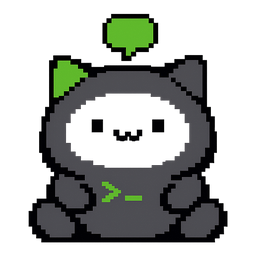
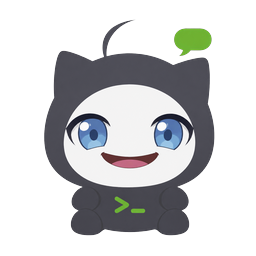
feat(panel): 球放大到 96px、捏一下换表情、三个真状态各一张脸
球 76 → 96（+26%），出图余量 4% → 2%（猫再大 2%）。动效是把既有的三样做强：悬停从此
只改阴影 → 加 `scale(1.02)`；按下 `.95` → `.92`；过渡换成回弹曲线（松手会过冲一下）。
**放大倍数与出图余量是配对的两半**——实测 1.02 倍时圆外只剩 1 个实心像素、1.03 倍有 10 个，
所以有测试同时钉住两边，谁单独改一边球就会被窗口边削掉一圈（且不报错）。

表情四张，全部是**生成的**：走同一个中转的 `/images/edits`（图进图出，`/images/generations`
只会画出"另一只像的猫"）+ mask 只挖眼睛与嘴。三件实测出来的事：① 模型**会重绘整张画布**
（洞内平均色差 197.8、洞外 10.9），所以只取洞内像素、边界高斯羽化，其余 100% 用原图；
② 返回 RGB、**透明底被填成纯黑**（这个端点第二次这么干），alpha 用原图的；
③ 四张球面图共用同一套裁剪与缩放参数 → 切换时脸不跳（两张之间实测只差 3.5% 像素，全在眼睛）。

- 捏一下：眯眼笑。**按住是笑脸、松手立刻恢复**——第一版留了 900ms，用户试过说像卡住，
  于是常量整个删掉，测试改成断言"不许有保留期"而不是放宽
- busy：平静半闭眼 + 小口（第一版画成斜眼细缝，看着像"怀疑"而不是"专注"，重画了一次）
- offline：闭着的下垂眼 + 波浪嘴；quota：厚眼皮半睁 + 椭圆形叹气
- 光晕照旧画：它是余光可见的环境灯，表情是盯着看才见的细节，两个距离说同一件事
- **顺序是契约**：`ball-happy` 必须排在三条状态规则之后（CSS 同特异性时后写的赢），
  否则助手正忙的时候捏球看到的是"专注"脸，捏了个寂寞。这条有断言

顺带补掉一个缺口：`resources/panel` 的文件清单是手写的，**新增一张图没有任何测试会红**
（实测：从清单里删掉 `mascot-happy.png`，整个测试文件照样全绿）→ 清单提成常量，并与目录
**双向对账**（目录里多出未登记的、或清单里写着不存在的，都红）。

另外记下一条踩到的坑（已写进 memory）：面板窗口实时读 `resources/`，而 HTTP 静态白名单跑在
**守护进程**的 `dist/` 里 —— 改了 `src/` 不 `npm run build` 就只生效一半：CSS、图、渲染脚本
全是新的，唯独新图 404。重启两次面板都没用，因为白名单根本不在窗口里。

662 个测试全绿（新增 5 条），每个新断言都做过变异检查。

diff --git a/resources/panel/panel.css b/resources/panel/panel.css
@@ -10,7 +10,7 @@
   --err: #e5645f;
   /* 球多大。CSS 拿不到 JS 的值，所以这里是**第二份**——与 `ball-position.cjs` 的
      `BALL_SIZE`（main.cjs 也从那里取）必须一致，`test/panel-packaging.test.ts` 断言这一点。 */
-  --ball-size: 76px;
+  --ball-size: 96px;
   /* 气泡多大、离球多远、圆角多少。同样是 `ball-position.cjs`（`BUBBLE_SIZE` / `BUBBLE_GAP`）
      的第二份拷贝：JS 那边用它算窗口矩形，CSS 这边用它排版，两边必须一致——有测试钉住。 */
   --bubble-width: 420px;
@@ -117,12 +117,23 @@ header {
      页面收不到 click，球就点不开了（实测的故障就是这个）。拖动自己实现，见 renderer.js。 */
 
   /* 球本身**没有底色**：下面那层 `.glow` 才是"背景"，上面 `.face` 是吉祥物。
-     图上按内容包围盒裁过（源图 1024² 里内容只占 600x689），自带 12% 余量，铺满即可。 */
+     **换 `mascot.png` 时：内容必须全部落在内切圆里。** 球（连 `.face` 自己）都是
+     `border-radius: 50%`，图会被裁成圆的——而这张图的内容一向是**铺满画布**的
+     （2026-09-27 那版源图 1254²，内容占 98%），直接铺上去，角上的东西就没了：
+     实测绿气泡整块（10,368 个实心像素）落在圆外。所以出图时按
+     「实心像素到内容中心的最远距离 ≤ 0.98 × 半径」缩放，再居中贴到 256²：
+     现图 1226x1247 → 214x218，圆外实心像素 0，占画布 84%x85%。
+     **余量留 2%（不是 0）是有用的**：悬停时球放大到 1.02，那 2% 正好兜住，
+     实测 1.02 倍时圆外只剩 1 个像素；压到 0.98 以下就没地方放这个放大了。
+     （上一版源图 1024²、内容 600x689 时靠"裁到包围盒 + 12% 余量"就够，
+     那是因为它的内容本来只占 59%x67%——**余量是结果，不是规则**。） */
   background-color: transparent;
 
   /* 投影跟着猫的轮廓走（不是跟着那个不存在的圆），透明主体靠它跟浅色壁纸分开 */
   filter: drop-shadow(0 6px 12px rgba(0, 0, 0, .50));
-  transition: transform .12s ease, filter .12s ease;
+  /* 回弹曲线（不是 ease）：松手时从压扁弹回原状会**轻微过冲**一下，那就是"弹"的感觉。
+     窗口就是球这么大，过冲出来的那点边缘靠出图时留的 2% 余量兜住。 */
+  transition: transform .16s cubic-bezier(.34, 1.56, .64, 1), filter .16s ease;
 }
 
 body.shell #ball { display: grid; }
@@ -159,6 +170,24 @@ body.quota #ball .glow {
   background-size: 100%;
   background-position: center;
   background-repeat: no-repeat;
+}
+
+/* 三个**真状态**各有一张脸：忙的时候专注、连不上时委屈、额度用完时累。
+   接的全是现成的状态类（`setBallState` 早就挂 busy/offline/quota 了），**不新增状态机**；
+   光晕照旧画——它是"余光能看见"的环境灯，表情是盯着看才见的细节，两者说的是同一件事，
+   一个给余光一个给注视，不重复。
+   **这三条必须写在下面 `ball-happy` 之前**：CSS 同特异性时后写的赢，而"用户正捏着它"
+   比"助手在忙"更该被看见（你捏它的时候它就该笑）。 */
+body.busy #ball .face { background-image: url('/panel/mascot-focus.png'); }
+body.offline #ball .face { background-image: url('/panel/mascot-sorry.png'); }
+body.quota #ball .face { background-image: url('/panel/mascot-tired.png'); }
+
+/* 被捏一下时的脸：眯眼笑。**硬切，不做淡入** —— 换表情本来就是一帧的事，淡入反而像
+   "图片正在加载"。两张图是用**同一套裁剪与缩放参数**从同一张源图生成的（实测差异只有
+   3.5% 的像素，全部落在眼睛那一条上），所以切的时候脸不会跳、尺寸也不变。
+   改 `background-image` 只此一处，`.face` 的基础规则仍在上面那条里。 */
+body.ball-happy #ball .face {
+  background-image: url('/panel/mascot-happy.png');
 }
 
 /* 色相流动 —— 现在只在**忙碌**时跑（空闲时那一层根本不画）。
@@ -212,16 +241,23 @@ body.quota #ball .glow { animation: none; opacity: .85; }
   body.mode-chat #bubble { animation: none; }
   body.mode-chat.closing #bubble { animation: none; opacity: 0; }
   #ball { transition: none; }
+  /* 形变也要停。只关 transition 的话，悬停/按下会**瞬间**跳到放大/压扁的形状，
+     那看起来更像故障而不是"少动一点"。 */
+  #ball:hover, #ball:active { transform: none; }
 }
 
-#ball:hover { filter: drop-shadow(0 8px 16px rgba(0, 0, 0, .58)) brightness(1.08); }
-#ball:active { transform: scale(.95); }
+/* 悬停：微微放大 + 阴影加深 + 提亮 —— 三样一起才够"这里能点"。
+   **放大只敢到 1.02**：出图按"实心像素最远点 ≤ 0.98 × 半径"缩放（见 `.face` 那段），
+   1.02 倍时圆外只剩 1 个像素（实测），再大就开始削掉猫的外缘。 */
+#ball:hover { transform: scale(1.02); filter: drop-shadow(0 8px 16px rgba(0, 0, 0, .58)) brightness(1.08); }
+/* 按下：压扁。**只往小里做** —— 放大或位移会把内容顶出窗口、被窗口边裁掉。 */
+#ball:active { transform: scale(.92); }
 
-/* 球形态：把气泡整个藏掉，窗口缩回 76x76（主进程那边做）。
+/* 球形态：把气泡整个藏掉，窗口缩回球那么大（96x96，主进程那边做）。
    底色早就不是 body 的了（见上面 `body.shell` 那两条）——气泡自己画，窗口是透明的。 */
 body.mode-ball #bubble { display: none; }
 /* 球形态下不许出现滚动条：busy 的呼吸动画会 scale(1.08)，
-   溢出的那点内容会在 76x76 的窗口里长出滚动条（实测：右侧冒出上下箭头）。 */
+   溢出的那点内容会在球那 96x96 的窗口里长出滚动条（实测：右侧冒出上下箭头）。 */
 body.mode-ball { overflow: hidden; }
 
 /* 对话形态（有外壳时）才显示"收起" */
@@ -253,7 +289,7 @@ body.mode-chat.bubble-right.anchor-top #bubble { transform-origin: left 38px; }
 
 /* 收起：先把气泡淡掉（**窗口这会儿还是大的**，所以这 130ms 真看得见），主进程等这段时间
    过去再缩窗口，缩完才通知页面把气泡摘掉（`display: none`）。顺序不能反：提前摘掉就成了
-   "啪"地消失，晚摘掉就会在 76x76 的窗口里露出一条气泡的边。
+   "啪"地消失，晚摘掉就会在球那 96x96 的窗口里露出一条气泡的边。
    **这里用 animation 而不是 transition**：上面那条 `bubble-in` 带着 `both` 填充，而动画在
    层叠里**压过**过渡——写 `opacity: 0` 会被它一直覆盖着，收起时看着就像没反应。
    两条都是动画时，靠"更靠后的选择器 + 更高的特指度"（多一个 `.closing`）取胜。 */

diff --git a/resources/panel/renderer.js b/resources/panel/renderer.js
@@ -335,9 +335,21 @@ if (hasShell) {
   // 所以拖拽自己实现：按下时告诉主进程记住窗口与指针位置，移动时按差值挪窗口；
   // 松手时如果**指针几乎没动**，那就是一次点击。
   // 阈值 4 像素：手抖不会把点击变成拖动，而想拖的人自然会移过 4 像素。
+  /** 被捏一下的表情。**只有一个入口**（同 `setBallState` 的理由：散着写迟早有一条分支
+   *  忘了摘，球就一直是那张笑脸）。
+   *
+   *  **按住是笑脸，一松手立刻变回来。** 第一版松手后还留 900ms，想的是"一次点击只闪
+   *  十几毫秒，不留就看不见"——用户试过之后说那个延迟很别扭：手指松开了表情还挂着，
+   *  像是卡在那儿。所以不留了。
+   */
+  function setBallFace(happy) {
+    document.body.classList.toggle('ball-happy', happy)
+  }
+
   const DRAG_THRESHOLD_PX = 4
   ball.addEventListener('pointerdown', (event) => {
     if (event.button !== 0) return
+    setBallFace(true)
     const startX = event.screenX
     const startY = event.screenY
     let dragging = false
@@ -351,13 +363,18 @@ if (hasShell) {
     const onUp = () => {
       window.removeEventListener('pointermove', onMove)
       window.removeEventListener('pointerup', onUp)
+      window.removeEventListener('pointercancel', onCancel)
       void window.weflowPanel.dragEnd()
+      setBallFace(false)
       if (dragging) return                 // 拖过了就不算点击
       toggleMode()
     }
+    // 指针被系统抢走（触摸、原生菜单弹出）时不走 onUp，必须自己把脸收回来，否则球一直笑着
+    const onCancel = () => setBallFace(false)
     void window.weflowPanel.dragStart(startX, startY)
     window.addEventListener('pointermove', onMove)
     window.addEventListener('pointerup', onUp)
+    window.addEventListener('pointercancel', onCancel)
   })
   // 右键：快速回复。**只在有外壳时接管**——浏览器降级那条路的原生菜单里有"复制"，
   // 那是用户要用的，不该被我们抢掉。

diff --git a/src/panel/server.ts b/src/panel/server.ts
@@ -58,6 +58,14 @@ const STATIC_FILES: Record<string, string> = {
   '/panel/panel.css': 'panel.css',
   // 悬浮球上那张图（项目吉祥物）。走白名单而不是挂目录，理由同上。
   '/panel/mascot.png': 'mascot.png',
+  // 被捏一下时换的那张（同一只猫，眯眼笑）。**必须一起进白名单**——漏了它，
+  // 球在按下的一瞬间会闪成一张空图（`PANEL_ASSET_MISSING` 只写在响应里，页面上看不到）。
+  '/panel/mascot-happy.png': 'mascot-happy.png',
+  // 三个真状态的脸（忙/连不上/额度用完）。与上面那张一样，**必须一起进白名单**——
+  // 漏一张，那个状态一出现球就闪成空图，而响应里的 PANEL_ASSET_MISSING 页面上看不到。
+  '/panel/mascot-focus.png': 'mascot-focus.png',
+  '/panel/mascot-sorry.png': 'mascot-sorry.png',
+  '/panel/mascot-tired.png': 'mascot-tired.png',
 }
 const CONTENT_TYPES: Record<string, string> = {
   '.html': 'text/html; charset=utf-8',

diff --git a/docs/PROJECT_STATE.md b/docs/PROJECT_STATE.md
@@ -38,7 +38,7 @@ WeFlow CLI is a local-first command-line tool and MCP server for user-authorized
 | Assistant trace | Every turn writes one record to `~/.weflow-cli/assistant_trace.jsonl`: the fast-route's decision, each tool call with a **redacted argument summary**, round trips, why it stopped, and any reasoning the model returned. Read it with `assistant trace` on the machine, or by sending `轨迹` in WeChat (last turn only, and **no `userId` in that rendering**). The audit is unchanged and stays narrow: it records events and byte counts and never content, because it is the egress record; the trace is a local debugging artifact, which is why argument summaries live here. Reasoning comes from the provider's `reasoning_content` and is empty with the default `deepseek-chat` - the trace says so rather than implying it thought. "Did this step produce anything" is a **convention** (`(`-prefixed results), not a field; its one exception is a whitelist guarded by a test, and the ~40-site alternative was priced and declined (D-043). | `assistant trace`, `轨迹` in chat |
 | Assistant behaviour eval | `npm run eval:assistant` runs nineteen synthetic cases against the **real** model (one of them multi-turn) and asserts floor conditions: was the tool that could answer actually called, and were tools avoided when none was needed; did tool usage stay bounded; **is a failing tool reported as failing** (exit code 2 produces a reply quoting the error and offering an alternative, not "no one is waiting"); is an unknown contact ever given invented content; is memory judged by the fact landing in long-term memory rather than by whether `save_memory` was called; does an ambiguous contact name get a question back instead of a guess; are two asks in one message both served; and is a refused fetch (an internal address in favourites) reported as a refusal rather than summarised. Synthetic data, temporary home directory (the real audit and memory files stay untouched - a second writer would clobber the daemon's), and only the model call may leave the process. The expectations are the author's, **not human labels**, so this measures floors and not quality; a first green run proves little (cases and behaviour share an author) and the value is in re-running it after a change. Assertions must key off the tool's own diagnostics, never the model's wording - this suite's own first version asserted "查不到" and produced two false failures on "查不了". The criterion that follows from it, applied once more in `todos-never-extracted`: an expectation that moves with the model's phrasing is a budget, not a floor. That case first asserted "the reply mentions extraction" as a hard floor and passed three clean runs; putting the old tool behaviour back (mutation) still passed once before failing once - the model has its own ways of saying it - so the assertion now rides the soft channel, and the deterministic guard for the distinction lives in `test/assistant-tools-branches.test.ts`. Not in `npm test`: it needs network and money. | `npm run eval:assistant`, `--only=<case>`, `--json` |
 | Assistant | Optional WeChat Bot-channel assistant: 19 local tools (12 originally; plus chat search, reply debt, semantic search and chat export, with export in html/txt/json/excel, Moments "who posts most", favourites without a keyword, and drafted replies). The single write tool (`export_chat`) can only create a new directory under `output/exports/` - the model supplies no path and an existing name gets a numeric suffix, so "never overwrite" is enforced in code. `draft_reply` writes nothing and **sends nothing** (D-047). `evidence-review`, `vault promote`, sending messages and every configuration change are deliberately **not** reachable from a chat message: the first two have their own human-facing confirm gates, sending is irreversible, and configuration is meant to be changed on the machine. 19 local tools, three-layer memory (working window / rolling summary / long-term facts), PII redaction before any cloud call, and a 100-message/day quota. It denies **every** sender until an allowlist is configured. The **single-round fast path** (D-035) is shipped but **off by default** (`assistantFastRoute` = `off` | `log` | `on`): it resolves "needs local data? which capability?" in one decision call and pre-dispatches that tool, so the loop's first request already sees the result (two round trips become one). Only the six tools with closed or empty arguments are routable; everything else falls back, and falling back is byte-identical to the previous behaviour. Measured on 17 questions against the real decision layer: 0 wrong routes, 10 routed concretely, ~1.33 s per decision, 2 fell back (`scripts/assistant_route_probe.ts`; those expectations are the author's, not human labels). Covered by synthetic harnesses (stubbed `callLLM`, stubbed `chatService`/`wereadService` singletons, a replaced `fetch`, a stubbed message channel, an injected route decider, temp `HOME`): per-message logic, 18 of the 19 tool branches (only `get_daily_report` is never executed - it reads a module-level path constant with no injection point, so which branch it takes depends on the machine; see the coverage note in `test/assistant-tools-branches.test.ts`), the resident loop itself - who is denied, the three group controls, the serial queue, the 100/day quota with its date rollover - the **privacy wiring** (which `aiEngine` values count as local inference, where `engineConfig` sends the request, and `reviewEvidence` refusing to send chat text to the cloud without `--allow-cloud`), and the fast path (correct / wrong / uncertain / log-only / no dispatch without the audit line). `get_todos` is executed through `pythonBridge`'s injectable runner (empty list, urgency and deadline rendering, the 15-row cap, a classified failure whose `stderr` is redacted, and "no JSON" not being read as "no todos"). It also keeps "no pending todos" apart from "extraction has never been run" (D-044): the emptiness has a cause of its own on a machine where `todos extract` was never invoked, so the tool names that cause and the command that would fill the list instead of reporting "nothing to do". The list is extracted from chat logs only by an explicit, confirmed command; nothing schedules it. Note on that claim's history: an earlier revision of this line - and the commit message for the `pythonBridge` refactor - asserted this coverage before any such test existed; it was written in prose only, and the file's own header comment said the opposite. The tests are real as of this revision. The assistant is time-aware: the system prompt opens with the current local date and weekday, and `get_messages` takes `since`/`until` (a date or `3d`/`2w`/`12h`) so a specific past day is reachable - before this, a day far enough back could not be fetched at all. An identical tool call repeated within one turn is answered with a note instead of being re-executed. The tool list is built per machine: a tool whose prerequisite is missing (semantic search without `dashscopeApiKey`, WeRead without `wereadApiKey`) is not offered at all, and the fast path - which dispatches directly - checks the same predicate; the filter only drops tools that *cannot* run, never ones that merely have no data yet. Name resolution searches the recent sessions first and then falls back to the contact book (remark / display name / nickname / alias), refusing anything that is not unique - measured on 378 real contacts outside the recent sessions: 362 resolved, 0 resolved to the wrong person. | `login-wechat`, `assistant` |
-| 本机面板 (local panel) | A second entrance to the same assistant, for when logging into the Bot channel is not worth it: `weflow-cli panel` opens an always-on-top window (Electron) or a chromeless Edge/Chrome `--app` window when Electron is absent. **The window is only a client** - every turn goes through the daemon's own `runTurn`, so the allowlist path, the 100/day quota counter, the serial queue and the memory file all stay single-writer (D-045). The daemon exposes a **loopback-only** HTTP endpoint (`127.0.0.1:8766`, not configurable) that is deliberately stricter than the daily reader: **every** request needs a per-run token (including `/api/status`), Origin is a second gate, POSTs must be JSON, and only one turn may be in flight (a second one gets 429 rather than being queued, because queueing means it will run and spend quota). The token lives in `~/.weflow-cli/assistant_endpoint.json` (atomic write; readers probe `kill(pid,0)` and verify `service` + `startedAt`, because SIGTERM leaves the file behind) and never reaches a command line: the Electron shell reads it itself and installs it as an `HttpOnly` cookie, while the browser fallback uses a one-time 60-second code from `/api/pair`. The memory bucket decides whether the panel is the same brain as WeChat - it resolves to the single allowlisted id, else it says on screen that it uses a separate bucket (`assistantPanelUser` pins it). Verified live: the browser fallback opened, the pair-code flow returned the page with an `HttpOnly` cookie, a replayed code 401s, and a real question through the endpoint answered from local data while the shared quota counter went 0 -> 3. The floating ball was verified on Windows 11 with Electron 42 (76x76, no caption, always-on-top, renderer authenticated via the cookie, ball visible on screen); with Electron absent the same command falls back to a chromeless Edge/Chrome window and says it cannot give the ball. Ball-to-chat resize and the global hotkey were then exercised **without a click** (DevTools protocol; a differential registration test), which is how two bugs surfaced that a screenshot could not have shown - a non-resizable window ignoring `setSize` on Windows (collapse left it at the expanded size) and a `ready-to-show` listener attached too late (the window sometimes stayed hidden). **Right-clicking in the panel opens a quick-reply menu listing the contacts in `quickReplyContacts` (a config key added for it; the list rides on `/api/status`, which the page already polls every 30 seconds, so no new endpoint and no new IPC). Picking a name asks the assistant to draft for that person through the existing `/api/ask`, so quota, the serial queue, memory and the copy button all come along unchanged. The menu states its own cost (drafting sends that conversation to two cloud models), an empty list shows the command to run instead of an empty box, and the menu is a **native** one (built in the main process from `quick-menu.cjs`) so it draws outside the window - the ball is 76x76 and never has to expand, which is what the first attempt got wrong; the browser fallback does not take over right-click at all, because the native menu's Copy belongs to the user there. That menu's **last item hides the ball** (the only item in it that reaches no model), and it is the one item still present when the list is empty - otherwise a user who never configured the key would get a menu of two grey lines with nothing clickable, including no way to dismiss the ball. It hides rather than quits, so it is deliberately reversible, and the label names the way back (`关闭悬浮球（托盘图标能再打开）`) because the ball runs with `setSkipTaskbar(true)` and would leave nothing on the taskbar to click; the exit actions stay in the tray menu, which already separates them from show/expand (no test ever drives a real right-click, so the menu's *contents* are covered by executing every item's callback in `test/panel-quick-menu.test.ts`). Dragging the ball used to **grow the window by the drag distance** whenever it happened in the chat window: `dragMove` re-read the current size and wrote it back, and that read lags (measured with a probe driving the same IPC sequence: 0 drift with `resizable: false`, exactly the drag delta with `resizable: true`). The extra width showed up as a gap between the ball and the bubble, and expanding re-asserted the exact size - which is why clicking the ball appeared to reset it. The size is now captured once at `dragStart`. The ball stays put and the conversation unfolds beside it** - clicking it opens a bubble to its left (flipping to the right when there is no room, top-aligning when the bubble would run off the top of the work area) and clicking it again closes it; the ball is a toggle and never fades out. The window is "ball + gap + bubble" as one piece (508x560), with the ball pinned to its own corner so it does not move at all; `bubbleLayout` and `ballRectInWindow` in `ball-position.cjs` compute that geometry (pure, tested with synthetic displays, including a round-trip that expand-then-collapse returns the ball to where it started). The mode has one source of truth (the main process announces `{mode, side, anchorY}`; the page only requests), so the ball, the collapse button, the tray and the hotkey take the same path, and `prefers-reduced-motion` stops both halves. Measured on a real window with the real page at 150% scaling: the ball's offset inside the window is exactly 0 at every sample and its screen position varies by at most 1px across a whole expand and collapse (23 and 30 samples), with identical resting positions before and after. Two bugs came out of that measurement rather than out of reading the code: the tween rounded each edge independently so the edge the ball hangs on wobbled 1-2px (since fixed by pinning the corner), and collapsing placed the ball at the window's top-left instead of the corner it sits on, which would have made it jump to the bubble's opposite corner. The platform wrinkle behind some of this: at 150% scaling a request for a 76x76 window yields a ~79px client width (Windows enforces a minimum), which is why the remembered position is the window's, not the ball's visual edge. That arithmetic is a pure module tested against **synthetic** monitor layouts (negative-x second displays, a removed display, a rect larger than the work area) - this machine has one display, so a real second monitor remains unperformed. **The ball's coloured halo is now painted only in the three non-idle states** (`busy` / `offline` / `quota`); while idle the ball is just the mascot, with nothing behind it. It had been on permanently - which was the original request (an animated background) - but that made the mascot PNG's own transparency invisible and, because the same layer is the status light, made offline / busy / quota-out look identical. The `@keyframes drift` and `@property --hue` machinery stays (it drives the busy state); what changed is when the layer is drawn. The test was **rewritten to the new contract, not weakened**: the first version searched the whole stylesheet for each `body.<state> #ball .glow`, which also matches that state's separate `animation: none` rule, so removing a state from the gradient selector still passed - caught by a mutation check, and the assertion now requires the state to appear in the selector of the rule that actually carries the `radial-gradient`. **The right-click menu now has a second section of eight one-click functions** (谁在等我回话 / 待办 / 日报 / 统计 / 阅读统计 / 会话 / 朋友圈 / 微信读书), admitted by a single rule: the action must be completable by **one fixed sentence**, because a native menu cannot collect input - so search/export/read-one-message are excluded rather than shipped as items that do nothing. Each prompt names its tool, which is a request to the model and **not a hard binding** (the assistant still chooses from 19 tools; forcing it is a decision for when a wrong pick is actually observed). The prompt travels with the menu item and the page keeps no id→prompt table (two tables drift into "the menu says A, clicking does B", silently - a test asserts `renderer.js` contains no action id); the cost line is **derived** from the action list rather than written down, because a stale cost warning is worse than none, and it now names which items are cloud calls and which are local reads. The pick payload is `{kind:'contact'|'action', …}` and the page ignores anything else, so a menu from the previous version cannot be dispatched as a draft nobody asked for. All of it verified by executing every item's callback and by two mutation checks (dispatching an action as a draft, and the page keeping its own id table). | `panel`, `panel --status`, `panel --ask` |
+| 本机面板 (local panel) | A second entrance to the same assistant, for when logging into the Bot channel is not worth it: `weflow-cli panel` opens an always-on-top window (Electron) or a chromeless Edge/Chrome `--app` window when Electron is absent. **The window is only a client** - every turn goes through the daemon's own `runTurn`, so the allowlist path, the 100/day quota counter, the serial queue and the memory file all stay single-writer (D-045). The daemon exposes a **loopback-only** HTTP endpoint (`127.0.0.1:8766`, not configurable) that is deliberately stricter than the daily reader: **every** request needs a per-run token (including `/api/status`), Origin is a second gate, POSTs must be JSON, and only one turn may be in flight (a second one gets 429 rather than being queued, because queueing means it will run and spend quota). The token lives in `~/.weflow-cli/assistant_endpoint.json` (atomic write; readers probe `kill(pid,0)` and verify `service` + `startedAt`, because SIGTERM leaves the file behind) and never reaches a command line: the Electron shell reads it itself and installs it as an `HttpOnly` cookie, while the browser fallback uses a one-time 60-second code from `/api/pair`. The memory bucket decides whether the panel is the same brain as WeChat - it resolves to the single allowlisted id, else it says on screen that it uses a separate bucket (`assistantPanelUser` pins it). Verified live: the browser fallback opened, the pair-code flow returned the page with an `HttpOnly` cookie, a replayed code 401s, and a real question through the endpoint answered from local data while the shared quota counter went 0 -> 3. The floating ball was verified on Windows 11 with Electron 42 (76x76, no caption, always-on-top, renderer authenticated via the cookie, ball visible on screen); with Electron absent the same command falls back to a chromeless Edge/Chrome window and says it cannot give the ball. Ball-to-chat resize and the global hotkey were then exercised **without a click** (DevTools protocol; a differential registration test), which is how two bugs surfaced that a screenshot could not have shown - a non-resizable window ignoring `setSize` on Windows (collapse left it at the expanded size) and a `ready-to-show` listener attached too late (the window sometimes stayed hidden). **Right-clicking in the panel opens a quick-reply menu listing the contacts in `quickReplyContacts` (a config key added for it; the list rides on `/api/status`, which the page already polls every 30 seconds, so no new endpoint and no new IPC). Picking a name asks the assistant to draft for that person through the existing `/api/ask`, so quota, the serial queue, memory and the copy button all come along unchanged. The menu states its own cost (drafting sends that conversation to two cloud models), an empty list shows the command to run instead of an empty box, and the menu is a **native** one (built in the main process from `quick-menu.cjs`) so it draws outside the window - the ball is 96x96 and never has to expand, which is what the first attempt got wrong; the browser fallback does not take over right-click at all, because the native menu's Copy belongs to the user there. That menu's **last item hides the ball** (the only item in it that reaches no model), and it is the one item still present when the list is empty - otherwise a user who never configured the key would get a menu of two grey lines with nothing clickable, including no way to dismiss the ball. It hides rather than quits, so it is deliberately reversible, and the label names the way back (`关闭悬浮球（托盘图标能再打开）`) because the ball runs with `setSkipTaskbar(true)` and would leave nothing on the taskbar to click; the exit actions stay in the tray menu, which already separates them from show/expand (no test ever drives a real right-click, so the menu's *contents* are covered by executing every item's callback in `test/panel-quick-menu.test.ts`). Dragging the ball used to **grow the window by the drag distance** whenever it happened in the chat window: `dragMove` re-read the current size and wrote it back, and that read lags (measured with a probe driving the same IPC sequence: 0 drift with `resizable: false`, exactly the drag delta with `resizable: true`). The extra width showed up as a gap between the ball and the bubble, and expanding re-asserted the exact size - which is why clicking the ball appeared to reset it. The size is now captured once at `dragStart`. **Pressing the ball switches it to a second, closed-eyes face, and releasing reverts it immediately** (a 900ms hold after release was tried first and the user called it stuck; the generated face is composited in only inside an eye-shaped mask, because the endpoint repainted the whole canvas and returned no alpha). The ball stays put and the conversation unfolds beside it** - clicking it opens a bubble to its left (flipping to the right when there is no room, top-aligning when the bubble would run off the top of the work area) and clicking it again closes it; the ball is a toggle and never fades out. The window is "ball + gap + bubble" as one piece (508x560), with the ball pinned to its own corner so it does not move at all; `bubbleLayout` and `ballRectInWindow` in `ball-position.cjs` compute that geometry (pure, tested with synthetic displays, including a round-trip that expand-then-collapse returns the ball to where it started). The mode has one source of truth (the main process announces `{mode, side, anchorY}`; the page only requests), so the ball, the collapse button, the tray and the hotkey take the same path, and `prefers-reduced-motion` stops both halves. Measured on a real window with the real page at 150% scaling: the ball's offset inside the window is exactly 0 at every sample and its screen position varies by at most 1px across a whole expand and collapse (23 and 30 samples), with identical resting positions before and after. Two bugs came out of that measurement rather than out of reading the code: the tween rounded each edge independently so the edge the ball hangs on wobbled 1-2px (since fixed by pinning the corner), and collapsing placed the ball at the window's top-left instead of the corner it sits on, which would have made it jump to the bubble's opposite corner. The platform wrinkle behind some of this: at 150% scaling a request for a 76x76 window yields a ~79px client width (Windows enforces a minimum), which is why the remembered position is the window's, not the ball's visual edge. That arithmetic is a pure module tested against **synthetic** monitor layouts (negative-x second displays, a removed display, a rect larger than the work area) - this machine has one display, so a real second monitor remains unperformed. **The ball's coloured halo is now painted only in the three non-idle states** (`busy` / `offline` / `quota`); while idle the ball is just the mascot, with nothing behind it. It had been on permanently - which was the original request (an animated background) - but that made the mascot PNG's own transparency invisible and, because the same layer is the status light, made offline / busy / quota-out look identical. The `@keyframes drift` and `@property --hue` machinery stays (it drives the busy state); what changed is when the layer is drawn. The test was **rewritten to the new contract, not weakened**: the first version searched the whole stylesheet for each `body.<state> #ball .glow`, which also matches that state's separate `animation: none` rule, so removing a state from the gradient selector still passed - caught by a mutation check, and the assertion now requires the state to appear in the selector of the rule that actually carries the `radial-gradient`. **The right-click menu now has a second section of eight one-click functions** (谁在等我回话 / 待办 / 日报 / 统计 / 阅读统计 / 会话 / 朋友圈 / 微信读书), admitted by a single rule: the action must be completable by **one fixed sentence**, because a native menu cannot collect input - so search/export/read-one-message are excluded rather than shipped as items that do nothing. Each prompt names its tool, which is a request to the model and **not a hard binding** (the assistant still chooses from 19 tools; forcing it is a decision for when a wrong pick is actually observed). The prompt travels with the menu item and the page keeps no id→prompt table (two tables drift into "the menu says A, clicking does B", silently - a test asserts `renderer.js` contains no action id); the cost line is **derived** from the action list rather than written down, because a stale cost warning is worse than none, and it now names which items are cloud calls and which are local reads. The pick payload is `{kind:'contact'|'action', …}` and the page ignores anything else, so a menu from the previous version cannot be dispatched as a draft nobody asked for. All of it verified by executing every item's callback and by two mutation checks (dispatching an action as a draft, and the page keeping its own id table). | `panel`, `panel --status`, `panel --ask` |
 
 The 642-test TypeScript regression suite (counted from `npm test` on this revision; it grows with every capability) covers home-path expansion, custom NT data-root discovery, bounded daily-favorites synchronization, confirmed no-AI daily generation, no-AI Vault promotion, Vault content mutation previews, Vault initialization and synchronization confirmation, MCP configuration write confirmation, source/compiled Python resource lookup, outbound PII redaction, local-inference bypass, strict message-body masking, MCP path/date/URL validation and live tool discovery, message-contract preservation, local-date export bounds, export result metadata, evidence-package safety, assistant routing and lifecycle confirmation, message-channel authentication confirmation, todo and access-control mutation confirmation, message-send preview/confirmation, local-reader port validation, redacted configuration status, access-list JSON, database-key reset confirmation, human-gated initialization and key capture, content-free account-scan and assistant-log diagnostics, confirmed Vault RAG, confirmed semantic search and RAG chat, drafted-reply confirmation and its refusal path, structured todo reminders, strict knowledge limits, report previews, and cover-image signature validation. The panel's copy button is executed rather than read: `test/panel-copy-button.test.ts` boots `renderer.js` in a jsdom page, goes through the real `submit -> ask() -> fetch -> addTurn` path, clicks the button, and asserts both the success label and that a **failed** clipboard write says so instead of claiming success - and says in its own header that jsdom cannot reproduce Chromium's drag-region behaviour, so it proves the handler and not the OS-level click. Core automation entry points now include `capabilities --json`, `config show --json`, `whitelist list --json`, `blacklist list --json`, `check --json`, `init --dry-run --json`, `scan --json`, `dbkey --dry-run --json`, `sessions --json`, `messages --json`, `contacts --json`, `export ... --json`, `fav export ... --json-result`, `sns ... --json`, `daily-stats --json`, `daily --no-ai --dry-run --json`, `daily-server --status --json`, `assistant status --json`, `assistant log --json`, `todos list --json`, `todos remind --json`, `evidence --json`, `sync run --dry-run --json`, `sync run --yes --json`, `sync status --json`, `sync verify --json`, `evidence-review --dry-run --json`, Vault mutation previews, confirmed `vault rag`, confirmed `search` and `chat`, daily-favorite previews, `search-index --dry-run --json`, `pipeline run --dry-run --json`, report-generator previews, login/logout previews, and `mcp-config --output <file> --dry-run --json-result`. CI runs three jobs: `node` (build plus the TypeScript suite on Node 22.13), `python` (the Python suites on 3.11), and `release-consistency` (package.json and package-lock.json version agreement, plus a check that the npm package carries no outputs, models, databases or keys). The jobs are separate because a Node failure previously stopped the Python tests from running at all, which let them fail unnoticed.
 

diff --git a/CHANGELOG.md b/CHANGELOG.md
@@ -235,6 +235,73 @@ All notable user-facing changes are recorded here. This project follows [Semanti
 
 ### Changed
 
+- **The three real states each have a face now.** The panel has always tracked `busy` / `offline` / `quota`
+  (that is what the coloured halo reads), so this adds three faces to classes that already existed - **no new
+  state machine**. Busy is a calm half-closed eye with a small mouth (focused), offline is a closed sad eye
+  with a squiggly mouth (apologetic), quota-out is a heavy-lidded eye with an oval sigh (tired). The halo stays:
+  it is the ambient light you catch peripherally, the face is the detail you only see by looking, and they say
+  the same thing at two distances rather than repeating each other.
+
+  **The order of two CSS rules is a contract here.** `ball-happy` must come *after* the three state rules,
+  because with equal specificity the later rule wins - otherwise poking the ball while the assistant happens to
+  be busy shows the focused face and the poke does nothing visible. That is asserted, not commented.
+
+  All three are generated through the same `/images/edits` + mask pipeline as the grin, with the mask widened to
+  a third hole over the mouth (a resigned face cannot keep grinning). Each was checked for the thing that
+  actually breaks a circular ball: **0 solid pixels outside the inscribed circle**. The busy face took two tries
+  - the first came back with angled slits that read as *suspicious* rather than *concentrated*.
+
+- **Poking the ball makes it grin.** Press it and it switches to a second face - the same cat with its eyes
+  closed in a happy arc - and it goes back to the normal face the instant you let go. The first version held
+  the grin for 900ms after release, on the theory that a click lasts a few tens of milliseconds and an
+  expression that short is one nobody sees; **the user tried it and said the delay felt stuck**, so there is
+  no hold at all now, and a test asserts the constant is gone rather than weakened. `pointercancel` also
+  reverts, so a pointer stolen by the system cannot leave the ball grinning forever.
+
+  The second face is a **generated** image, and both halves of that needed measuring. It was produced with the
+  same endpoint's `/images/edits` (image-in, not text-in - `/images/generations` would have drawn a *similar
+  cat* rather than *this* cat) with a mask whose transparent area was the two eyes and the eyelids. **The model
+  still repainted the whole canvas**: mean colour distance inside the hole 197.8, outside 10.9 - so the shipped
+  file takes the generated pixels **only inside the hole**, feathered at the edge, and keeps the original
+  everywhere else, which is also why switching faces cannot shift the colours of the face. It came back **RGB,
+  with the transparent background filled black** (the second time this endpoint has done that), so the alpha
+  channel is taken from the source art.
+
+  Both faces are cut and scaled from the same source with the same parameters, so they are pixel-aligned: the
+  two 256px assets differ by 3.5% of their pixels, all of them in the eye strip. Switching is a hard cut, not a
+  fade - an expression change is one frame long, and a fade reads as an image loading.
+
+  One gap this closed rather than stepped around: `resources/panel`'s file list was hand-written and nothing
+  checked it, so **a new asset could be added without a single test going red** (measured: deleting
+  `mascot-happy.png` from the list kept the whole file green). The list is now a constant, and a test
+  reconciles it against the actual directory in both directions.
+
+- **The ball is a quarter bigger and answers the mouse.** `BALL_SIZE` 76 -> 96 (the window grows with it;
+  the expanded window is now 528 wide instead of 508), and the artwork is re-derived with a 2% margin instead
+  of 4%, so the cat itself is ~28% larger than before.
+
+  The interactions existed but were too quiet to notice: hover only changed the shadow and brightness, and
+  pressing gave `scale(.95)` with an `ease` transition - a 5% squeeze that snaps back rather than bounces.
+  Now hover scales to 1.02, press squashes to 0.92, and the transition is `cubic-bezier(.34, 1.56, .64, 1)` so
+  releasing overshoots back. **The enlarged-on-hover factor is 1.02 and cannot be raised on its own**: it is
+  paired with the margin the asset is generated with (measured: at 1.02x, one solid pixel falls outside the
+  circle; at 1.03x, ten - the window clips the ball to a circle and would shave its edge). A test pins both
+  halves. Idle stays perfectly still, so "not moving" still means idle and the halo keeps being the only
+  status light - and `prefers-reduced-motion` now stops the **deformation** too, not just the keyframes:
+  disabling the transition alone made hover/press jump instantly to another shape, which reads as a glitch.
+
+- **The ball wears the mascot's illustrated version; the pixel version is gone.** Same character, drawn
+  rather than pixel-art. The new source is 1254x1254 with its content filling 98% of the canvas, which is the
+  part that needed care: the ball clips its image to a **circle** (`border-radius: 50%` on both `#ball` and the
+  face layer), so pasting it in as-is put the **green speech bubble entirely outside the circle** (10,368 solid
+  pixels) along with the paws. The shipped asset is therefore cropped to the alpha bounding box and scaled so
+  that the furthest solid pixel sits within 96% of the radius - 1226x1247 becomes 210x213 centred on a 256
+  canvas - which measures **0 solid pixels outside the circle**, at 41KB (the source is 813KB). For scale: the
+  previous asset filled 80% x 91% of its canvas, the new one 82% x 83%, so the character does not shrink.
+  `serveStatic` reads the file per request with `Cache-Control: no-store`, so a running panel only needs a
+  **page reload** - no restart. The tray icon (`tray.png`) is a separate image and still shows the old
+  pixel-art mascot on its disc.
+
 - **The two knowledge bases now live in one Vault, in two directories.** The chat line had grown to 1,519
   concept pages inside `Wiki/Concepts` alongside the article line's 2,115 - one graph, correctly, but the user
   asked for the two to be kept apart. `Chat/` now holds the chat side (`Chat/Concepts/`, `Chat/00-Overview.md`),
